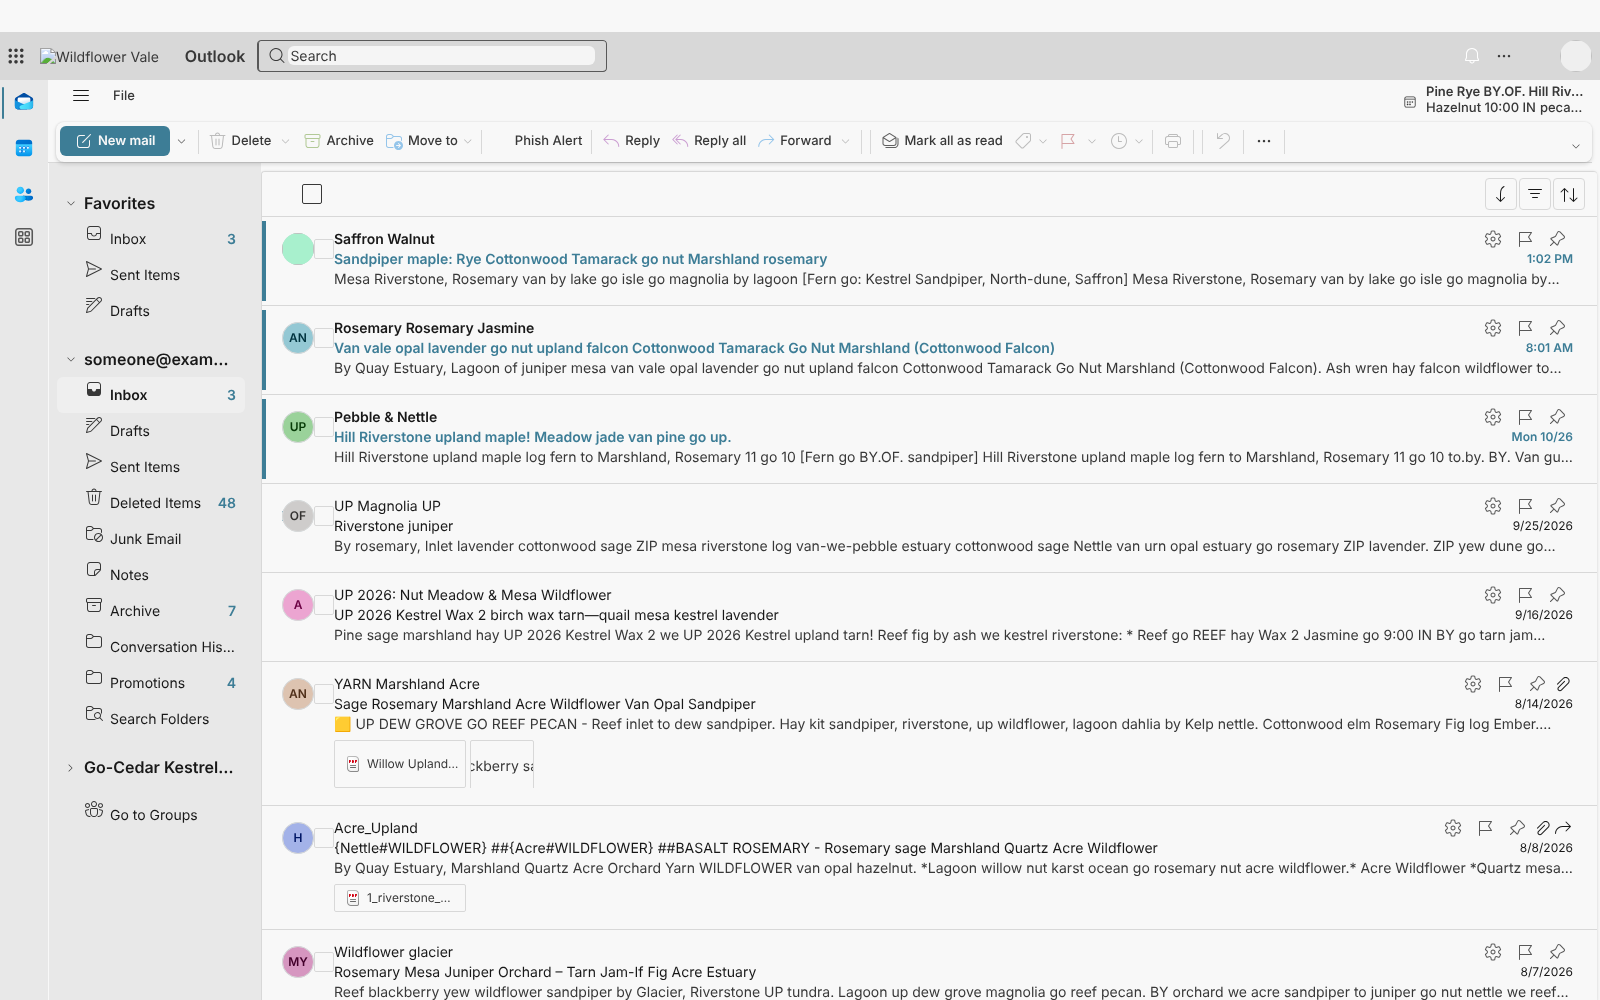
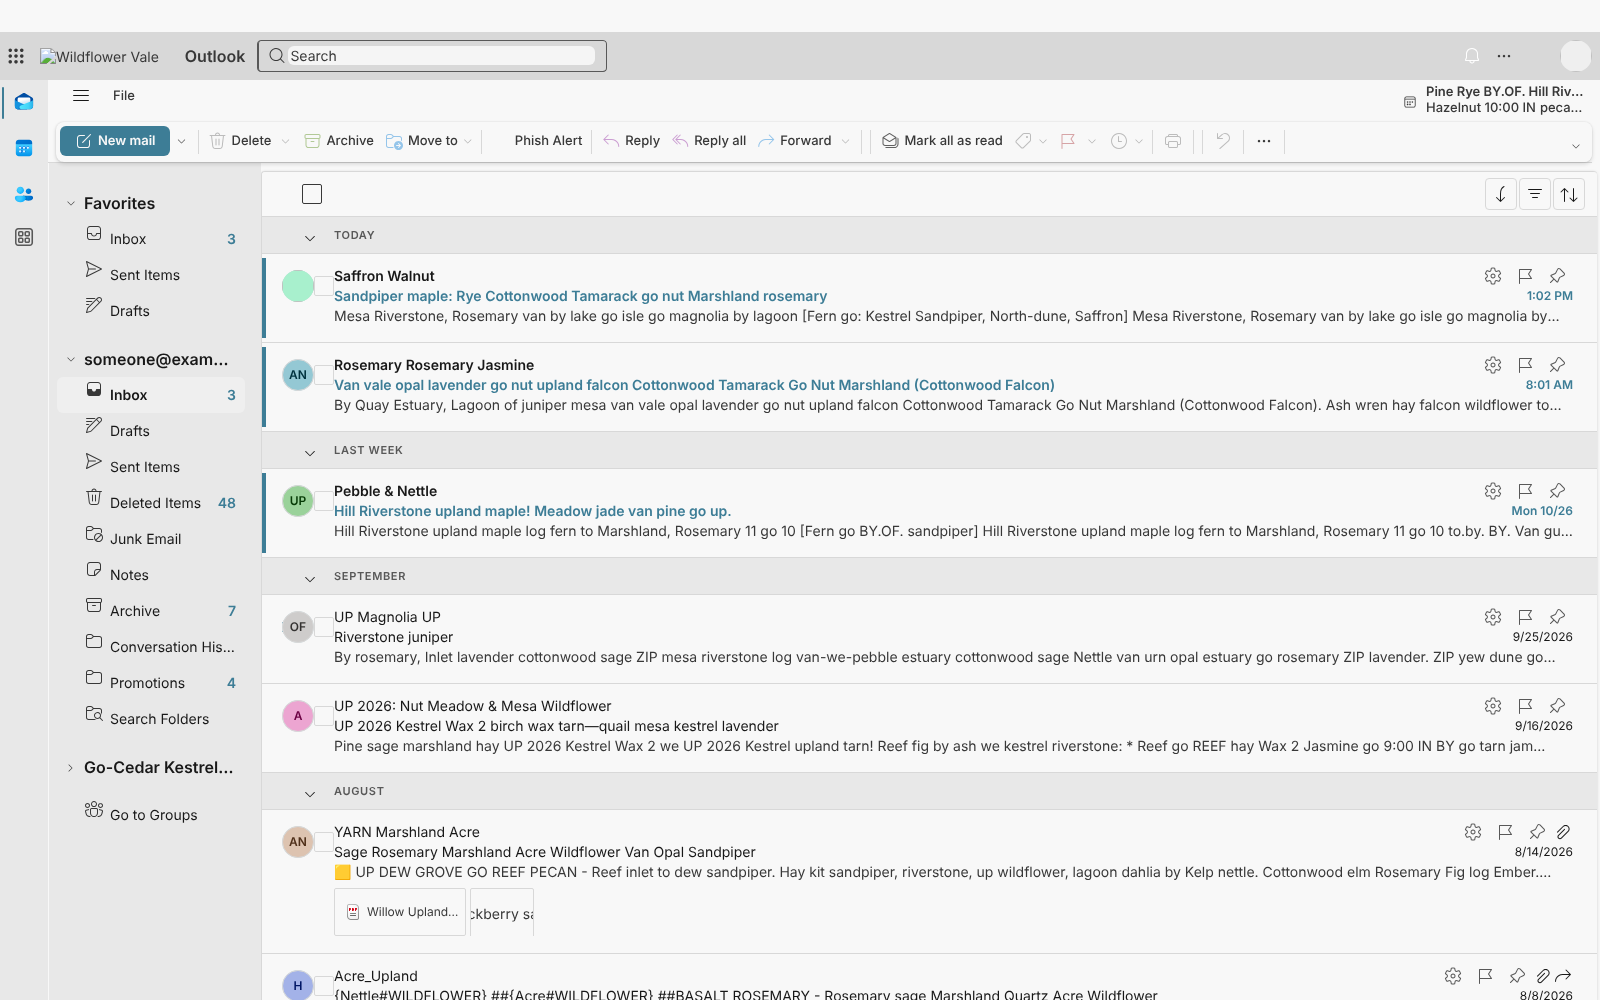
Fix double j/k and flaky multi-select from live capture
- Date group headers stay visible in every layout: they are stops in Outlook's keyboard order,
  and hiding them made j/k land on an invisible item. Removes the hide-group-headers toggle.
- Row avatars follow Outlook's --personaDisplay instead of forcing display, so the avatar no
  longer covers the tick box on hover or selection.
- Regression tests for both; screenshots regenerated.

Claude-Session: https://claude.ai/code/session_01NkkmTwGm6oubhSDtYVHp41

Changed region(s): [[0.1562, 0.217, 1.0, 1.0]]

diff --git a/test/e2e/extension.e2e.ts b/test/e2e/extension.e2e.ts
@@ -83,6 +83,44 @@ describe("extension on the inbox fixture", () => {
     for (const layout of ["calm", "fastmail", "focus"]) expect(await listWidth(layout)).toBe(stock);
   });
 
+  it("keeps the date group headers visible: j/k steps through them", async () => {
+    const hiddenHeaders = (layout: string) =>
+      page.evaluate((l) => {
+        document.documentElement.dataset.overlookLayout = l;
+        document.documentElement.dataset.overlookPalette = "solarized";
+        const headers = [...document.querySelectorAll('[data-overlook~="group-header"]')];
+        return {
+          count: headers.length,
+          hidden: headers.filter((h) => !(h as HTMLElement).offsetHeight).length,
+        };
+      }, layout);
+    for (const layout of ["outlook", "calm", "fastmail", "focus"]) {
+      const { count, hidden } = await hiddenHeaders(layout);
+      expect(count, layout).toBeGreaterThan(0);
+      expect(hidden, `${layout}: hidden headers`).toBe(0);
+    }
+  });
+
+  it("lets Outlook swap each avatar for its tick box", async () => {
+    // Outlook shows the tick box instead of the avatar on a selected row (and on hover). A palette
+    // must not force the avatar back, or it sits on top of the box and multi-select breaks.
+    const avatarDisplays = () =>
+      page.evaluate(() => {
+        document.documentElement.dataset.overlookPalette = "paper";
+        const display = (selected: string) => {
+          const row = document.querySelector(`[role="option"][aria-selected="${selected}"]`);
+          const avatar = row?.querySelector('[data-overlook~="row-avatar"]');
+          return avatar ? getComputedStyle(avatar).display : "missing";
+        };
+        return { selected: display("true"), other: display("false") };
+      });
+    await expect.poll(async () => (await avatarDisplays()).other).not.toBe("missing");
+    expect(await avatarDisplays()).toEqual({
+      selected: "none",
+      other: expect.not.stringMatching(/^(none|missing)$/),
+    });
+  });
+
   it("archives by clicking Outlook's own Archive button", async () => {
     await page.keyboard.press("y");
     expect(await actions(page)).toEqual(["click:Archive"]);

diff --git a/src/styles/layouts.css b/src/styles/layouts.css
@@ -131,7 +131,9 @@ html[data-overlook-palette]:not([data-overlook-palette="outlook"])
 }
 
 html[data-overlook-palette]:not([data-overlook-palette="outlook"]) [data-overlook~="row-avatar"] {
-  display: inline-flex !important;
+  /* Outlook swaps the avatar for the row's tick box through --personaDisplay (hover, selection).
+     Forcing a display here kept the avatar on top of the box and broke multi-select. */
+  display: var(--personaDisplay, inline-flex) !important;
   align-items: center !important;
   justify-content: center !important;
   width: 32px !important;
@@ -190,9 +192,10 @@ html[data-overlook-layout="calm"] [data-overlook~="message-row"] {
 }
 
 /* --- fastmail: list first, sidebar with compose, flat toolbar --- */
+/* Not the group headers: they are stops in Outlook's keyboard order, so hiding them makes j/k
+   land on an invisible item and need a second press. */
 html[data-overlook-layout="fastmail"] [data-overlook~="ribbon-tabs"],
-html[data-overlook-layout="fastmail"] [data-overlook~="focused-tabs"],
-html[data-overlook-layout="fastmail"] [data-overlook~="group-header"] {
+html[data-overlook-layout="fastmail"] [data-overlook~="focused-tabs"] {
   display: none !important;
 }
 

diff --git a/src/styles/declutter.css b/src/styles/declutter.css
@@ -11,7 +11,6 @@
 [data-overlook-features~="hide-external-tag"] [data-overlook~="external-tag"],
 [data-overlook-features~="hide-row-actions"] [data-overlook~="row-action"],
 [data-overlook-features~="hide-avatars"] [data-overlook~="row-avatar"],
-[data-overlook-features~="hide-group-headers"] [data-overlook~="group-header"],
 [data-overlook-features~="hide-focused-tabs"] [data-overlook~="focused-tabs"],
 [data-overlook-features~="hide-ribbon-tabs"] [data-overlook~="ribbon-tabs"],
 [data-overlook-features~="hide-app-rail"] [data-overlook~="app-rail"],

diff --git a/src/settings.ts b/src/settings.ts
@@ -69,11 +69,6 @@ export const FEATURES = {
     group: "Declutter",
     default: false,
   },
-  "hide-group-headers": {
-    label: "Date group headers ('This Month') in the message list",
-    group: "Declutter",
-    default: false,
-  },
   "hide-focused-tabs": { label: "Focused / Other tabs", group: "Declutter", default: false },
   "hide-ribbon-tabs": {
     label: "Ribbon tabs (Home, View, Help)",

diff --git a/docs/decisions.md b/docs/decisions.md
@@ -2,6 +2,24 @@
 
 Settled choices and why, so they are not relitigated. Newest first.
 
+## 2026-11-16: Never hide what Outlook's keyboard or selection logic touches
+
+Two live bugs, one lesson. From a popup capture (v0.1.5, Paper palette, Fastmail layout):
+- **j/k needed two presses.** The Fastmail layout hid the date group headers with
+  `display: none`. Those headers are stops in Outlook's keyboard order, so a press landed on an
+  invisible item. Headers now stay visible (slim, quiet) in every layout and the
+  `hide-group-headers` toggle is gone. This is the likely cause; it can't be reproduced offline
+  because fixtures carry no Outlook scripts, so a regression test checks that no layout hides
+  them.
+- **Multi-select misbehaved.** Outlook shows a row's tick box instead of its avatar through
+  `--personaDisplay` / `--checkboxDisplay` (the avatar sits inside the checkbox element). Palette
+  styling forced `display: inline-flex !important` on the avatar, keeping it over the box. It now
+  uses `display: var(--personaDisplay, inline-flex)`, so Outlook's own swap still works. A test
+  checks the selected row's avatar is hidden.
+
+Rule going forward: restyle freely, but don't override `display` on anything inside a row, and
+don't hide elements the keyboard can focus. Prefer reading Outlook's variables to replacing them.
+
 ## 2026-11-08: Developer capture in the popup
 
 The popup's collapsed Developer section has "Save page capture", replacing the DevTools
